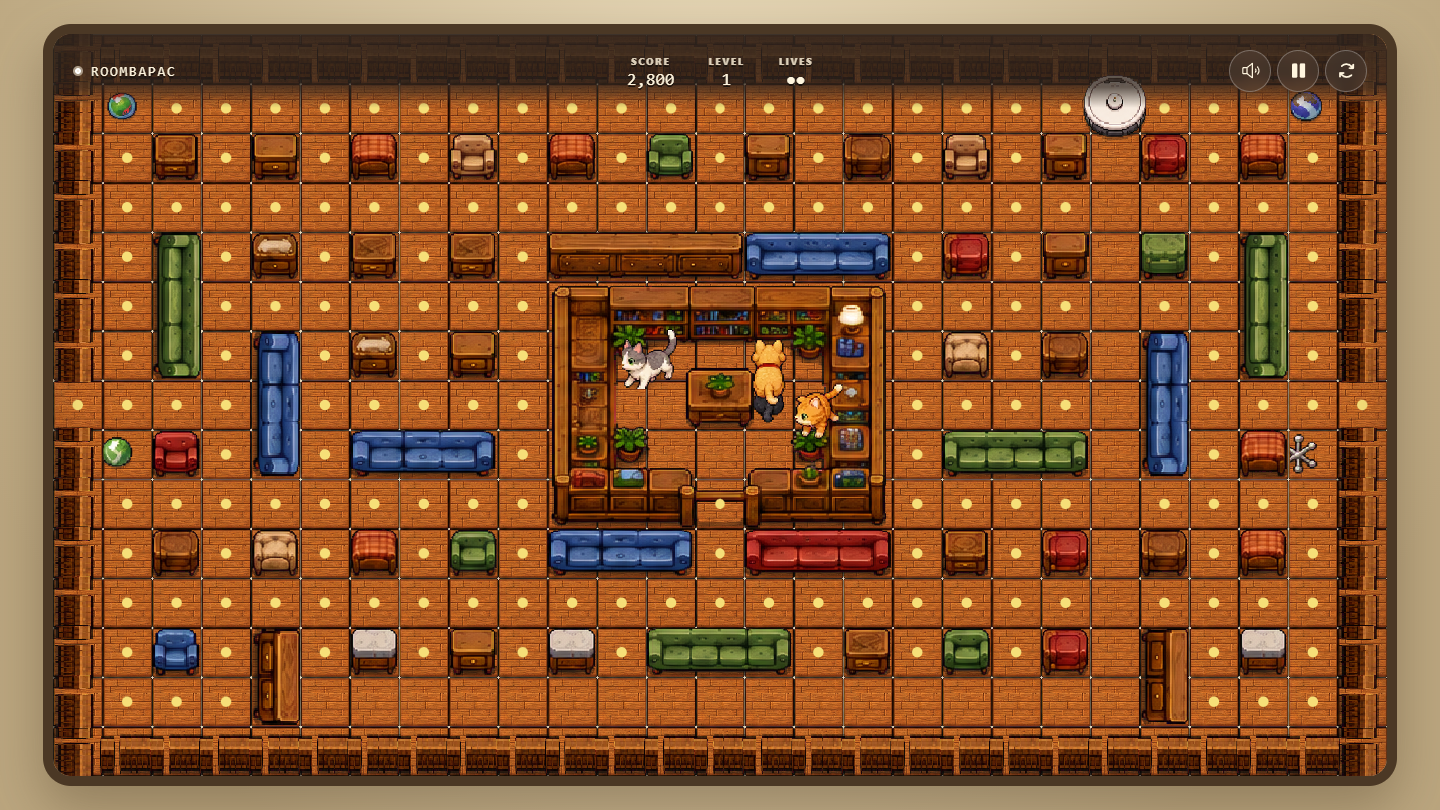
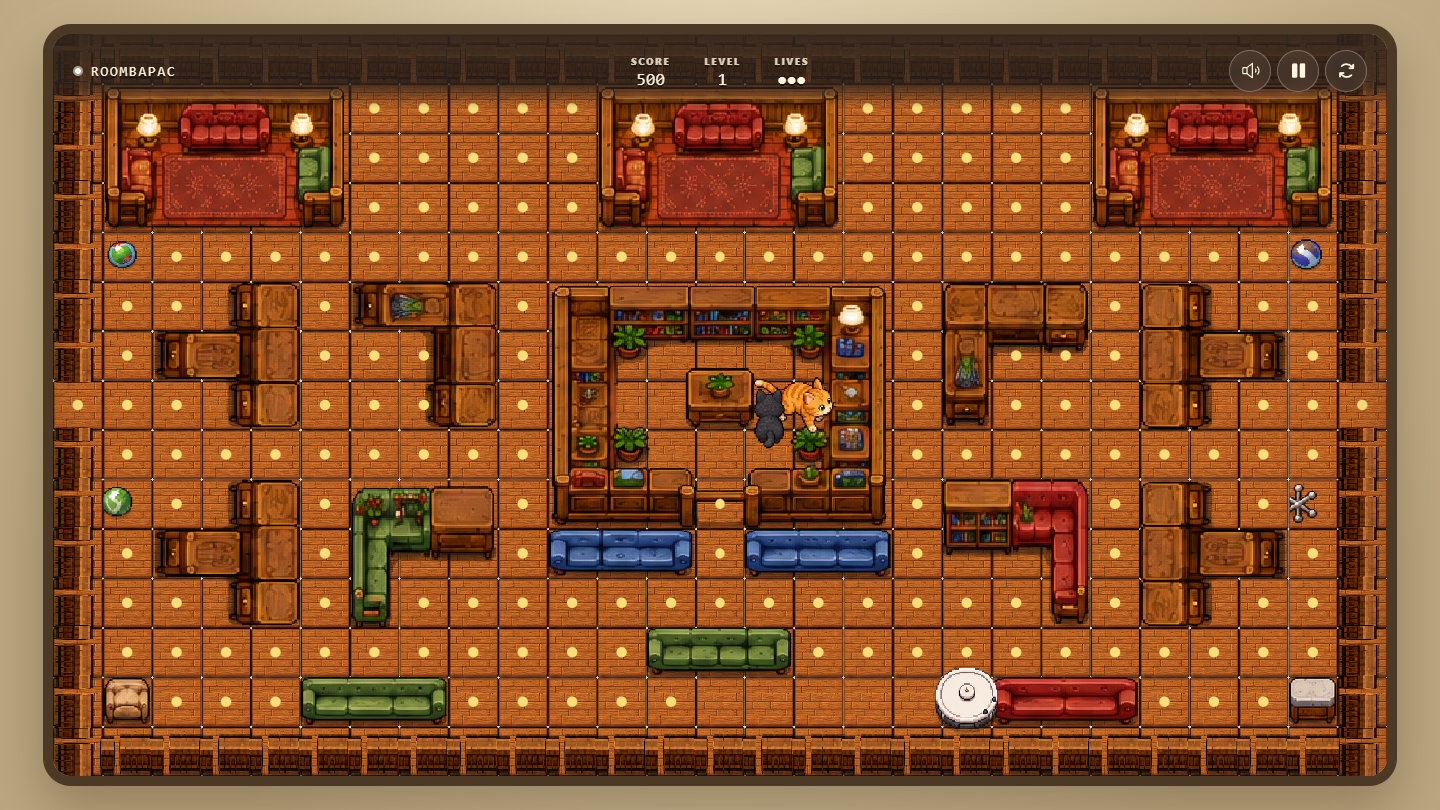
Balance generated obstacle shapes

diff --git a/src/game/maze.ts b/src/game/maze.ts
@@ -6,7 +6,14 @@ export const LEGACY_MAZE_VERSION: MazeVersion = 1
 export const CURRENT_MAZE_VERSION: MazeVersion = 2
 export const MAZE_WIDTH = 27
 export const MAZE_HEIGHT = 15
-const COMPACT_MIN_EDGE_COUNT = 119
+export const COMPACT_OBSTACLE_QUOTAS = {
+  room: 3,
+  linear: 5,
+  junction: 4,
+  hybrid: 2,
+  corner: 2,
+  block: 2,
+} as const
 
 type CoarsePoint = { x: number; y: number }
 type Edge = { a: CoarsePoint; b: CoarsePoint }
@@ -180,14 +187,7 @@ function generateProceduralEdges(random: () => number, layout: MazeLayout) {
     }
   }
 
-  const extraLoopChance = layout.version === LEGACY_MAZE_VERSION ? 0.16 : 0.25
-  for (const group of groups) if (random() < extraLoopChance) addGroup(group)
-  if (layout.version === CURRENT_MAZE_VERSION) {
-    for (const group of groups) {
-      if (selected.size >= COMPACT_MIN_EDGE_COUNT) break
-      if (!group.every((edge) => selected.has(edgeKey(edge)))) addGroup(group)
-    }
-  }
+  for (const group of groups) if (random() < 0.16) addGroup(group)
   return [...selected.values()]
 }
 
@@ -307,6 +307,105 @@ function buildFurniture(cells: Cell[][], theme: number, layout: MazeLayout) {
   return furniture
 }
 
+type CompactQuotaKind = keyof typeof COMPACT_OBSTACLE_QUOTAS
+
+const COMPACT_MASKS: Record<CompactQuotaKind, readonly string[]> = {
+  room: ['11111', '11111', '11111'],
+  linear: ['111'],
+  junction: ['111', '111', '010'],
+  hybrid: ['111', '100', '100'],
+  corner: ['111', '111', '100'],
+  block: ['1'],
+}
+
+const COMPACT_KIND_METADATA: Record<CompactQuotaKind, { kind: FurnitureKind; category: ObstacleCategory }> = {
+  room: { kind: 'room', category: 7 },
+  linear: { kind: 'straight', category: 1 },
+  junction: { kind: 'junction', category: 3 },
+  hybrid: { kind: 'alcove', category: 6 },
+  corner: { kind: 'corner', category: 2 },
+  block: { kind: 'block', category: 5 },
+}
+
+function rotateMaskPoint(point: Point, width: number, height: number, rotation: QuarterTurn): Point {
+  if (rotation === 0) return point
+  if (rotation === 1) return { x: height - 1 - point.y, y: point.x }
+  if (rotation === 2) return { x: width - 1 - point.x, y: height - 1 - point.y }
+  return { x: point.y, y: width - 1 - point.x }
+}
+
+function makeCompactPiece(id: string, quotaKind: CompactQuotaKind, x: number, y: number, rotation: QuarterTurn, variant: number): FurniturePiece {
+  const mask = COMPACT_MASKS[quotaKind]
+  const sourceWidth = mask[0].length, sourceHeight = mask.length
+  const offsets = mask.flatMap((row, rowIndex) => [...row].flatMap((value, columnIndex) => (
+    value === '1' ? [rotateMaskPoint({ x: columnIndex, y: rowIndex }, sourceWidth, sourceHeight, rotation)] : []
+  )))
+  const sideways = rotation % 2 === 1
+  const width = sideways ? sourceHeight : sourceWidth
+  const height = sideways ? sourceWidth : sourceHeight
+  const metadata = COMPACT_KIND_METADATA[quotaKind]
+  return {
+    id,
+    x,
+    y,
+    width,
+    height,
+    cells: offsets.map((point) => ({ x: x + point.x, y: y + point.y })),
+    kind: metadata.kind,
+    category: metadata.category,
+    rotation,
+    variant,
+  }
+}
+
+function mirrorCompactPiece(piece: FurniturePiece, layout: MazeLayout): FurniturePiece {
+  const cells = piece.cells.map((point) => ({ x: layout.width - 1 - point.x, y: point.y }))
+  const minX = Math.min(...cells.map((point) => point.x)), maxX = Math.max(...cells.map((point) => point.x))
+  const minY = Math.min(...cells.map((point) => point.y)), maxY = Math.max(...cells.map((point) => point.y))
+  return { ...piece, id: `${piece.id}-mirror`, x: minX, y: minY, width: maxX - minX + 1, height: maxY - minY + 1, cells, variant: piece.variant ^ 0x9e3779b9 }
+}
+
+function buildCompactWorld(seed: number, tunnelRow: number, theme: number, layout: MazeLayout) {
+  const cells: Cell[][] = Array.from({ length: layout.height }, () => Array<Cell>(layout.width).fill(0))
+  for (let x = 0; x < layout.width; x += 1) cells[0][x] = cells[layout.height - 1][x] = 1
+  for (let y = 1; y < layout.height - 1; y += 1) cells[y][0] = cells[y][layout.width - 1] = 1
+  cells[tunnelRow][0] = cells[tunnelRow][layout.width - 1] = 0
+  penCells(layout).forEach((point) => { cells[point.y][point.x] = 1 })
+
+  const random = mulberry32(seed)
+  let pieceIndex = 0
+  const pieces: FurniturePiece[] = []
+  const rotation = () => Math.floor(random() * 4) as QuarterTurn
+  const addPair = (quotaKind: CompactQuotaKind, x: number, y: number, pieceRotation: QuarterTurn) => {
+    const piece = makeCompactPiece(`compact-${pieceIndex++}`, quotaKind, x, y, pieceRotation, (seed + pieceIndex * 0x45d9f3b) >>> 0)
+    pieces.push(piece, mirrorCompactPiece(piece, layout))
+  }
+
+  addPair('room', 1, 1, 0)
+  addPair('junction', 2, 5, rotation())
+  addPair('hybrid', 6, 5, rotation())
+  addPair('junction', 2, 9, rotation())
+  addPair('corner', 6, 9, 0)
+  addPair('linear', 10, 10, 0)
+  addPair('linear', 5, 13, 0)
+  addPair('block', 1, 13, 0)
+  pieces.push(makeCompactPiece(`compact-${pieceIndex++}`, 'room', 11, 1, 0, seed ^ 0x27d4eb2d))
+  pieces.push(makeCompactPiece(`compact-${pieceIndex++}`, 'linear', 12, 12, 0, seed ^ 0x165667b1))
+
+  for (const piece of pieces) for (const point of piece.cells) {
+    if (cells[point.y]?.[point.x] !== 0) throw new Error(`Compact obstacle ${piece.id} overlaps another wall at ${pointKey(point)}`)
+    cells[point.y][point.x] = 1
+  }
+
+  const boundary = boundaryCells(cells, layout)
+  const furniture: FurniturePiece[] = [
+    { id: 'boundary', x: 0, y: 0, width: layout.width, height: layout.height, cells: boundary, category: 9, kind: 'boundary', variant: theme },
+    ...pieces,
+    { id: 'pet-cage', ...layout.penBounds, cells: penCells(layout), category: 8, kind: 'pen', variant: theme },
+  ]
+  return { cells, furniture }
+}
+
 export function furnitureCells(piece: FurniturePiece): Point[] {
   return piece.cells.map((point) => ({ ...point }))
 }
@@ -358,11 +457,19 @@ export function createMaze(seed: number, level = 1, version: MazeVersion = CURRE
   const mixedSeed = (seed ^ Math.imul(level, 0x9e3779b9)) >>> 0
   const random = mulberry32(mixedSeed)
   const tunnelRow = level === 1 ? layout.levelOneTunnelRow : layout.proceduralTunnelRows[random() < 0.5 ? 0 : 1]
-  const edges = level === 1 ? generateLevelOneEdges(layout) : generateProceduralEdges(random, layout)
-  const cells = carveMaze(edges, tunnelRow, layout)
   const tunnels = [tunnelPair(tunnelRow, layout)]
   const theme = (level - 1) % 9
-  const furniture = buildFurniture(cells, theme, layout)
+  let cells: Cell[][]
+  let furniture: FurniturePiece[]
+  if (version === CURRENT_MAZE_VERSION) {
+    const world = buildCompactWorld(level === 1 ? 1013905061 : mixedSeed, tunnelRow, theme, layout)
+    cells = world.cells
+    furniture = world.furniture
+  } else {
+    const edges = level === 1 ? generateLevelOneEdges(layout) : generateProceduralEdges(random, layout)
+    cells = carveMaze(edges, tunnelRow, layout)
+    furniture = buildFurniture(cells, theme, layout)
+  }
   const base = { width: layout.width, height: layout.height, cells, tunnels }
   const { pellets, items } = makeCollectibles(base, layout)
   return { ...base, pellets, items, spawn: { ...layout.spawn }, pen: { ...layout.penHome }, furniture, theme, seed }

diff --git a/src/game/maze.test.ts b/src/game/maze.test.ts
@@ -1,5 +1,5 @@
 import { describe, expect, it } from 'vitest'
-import { availableDirections, createMaze, CURRENT_MAZE_VERSION, furnitureCells, LEGACY_MAZE_VERSION, MAZE_HEIGHT, MAZE_WIDTH, neighborPoint, reachableCount } from './maze'
+import { availableDirections, COMPACT_OBSTACLE_QUOTAS, createMaze, CURRENT_MAZE_VERSION, furnitureCells, LEGACY_MAZE_VERSION, MAZE_HEIGHT, MAZE_WIDTH, neighborPoint, reachableCount } from './maze'
 import { pointKey, type ObstacleCategory } from './types'
 
 const insidePen = (x: number, y: number) => x >= 11 && x <= 15 && y >= 6 && y <= 8
@@ -12,9 +12,9 @@ describe('Pac-Man-style furniture mazes', () => {
     expect(first.furniture).toEqual(second.furniture)
     expect(first).toMatchObject({ width: MAZE_WIDTH, height: MAZE_HEIGHT, spawn: { x: 13, y: 13 }, pen: { x: 13, y: 7 } })
     expect(first.tunnels).toEqual([{ left: { x: 0, y: 7 }, right: { x: 26, y: 7 } }])
-    expect(first.pellets.size).toBeGreaterThanOrEqual(200)
-    expect(first.pellets.size).toBeLessThanOrEqual(225)
-    expect(new Set(first.furniture.map((piece) => piece.category))).toEqual(new Set<ObstacleCategory>([1, 4, 5, 8, 9]))
+    expect(first.pellets.size).toBeGreaterThanOrEqual(170)
+    expect(first.pellets.size).toBeLessThanOrEqual(180)
+    expect(new Set(first.furniture.map((piece) => piece.category))).toEqual(new Set<ObstacleCategory>([1, 2, 3, 5, 6, 7, 8, 9]))
   })
 
   it('retains the legacy board for ranked runs started by version-one clients', () => {
@@ -39,25 +39,36 @@ describe('Pac-Man-style furniture mazes', () => {
     const walkable = maze.cells.flat().filter((cell) => cell === 0).length
     expect(reachableCount(maze)).toBe(walkable)
     expect(maze.items.size).toBe(4)
-    expect(maze.pellets.size).toBeGreaterThanOrEqual(200)
-    expect(maze.pellets.size).toBeLessThanOrEqual(225)
+    expect(maze.pellets.size).toBeGreaterThanOrEqual(170)
+    expect(maze.pellets.size).toBeLessThanOrEqual(180)
     for (const key of [...maze.pellets, ...maze.items]) {
       const [x, y] = key.split(',').map(Number)
       expect(maze.cells[y][x]).toBe(0)
     }
   })
 
-  it.each([1, 2, 3, 8, 25])('builds symmetric single-lane loop networks for level %i', (level) => {
+  it.each([1, 2, 3, 8, 25])('builds symmetric connected routes without dead ends for level %i', (level) => {
     const maze = createMaze(987654, level)
     for (let y = 0; y < maze.height; y += 1) {
       expect(maze.cells[y]).toEqual([...maze.cells[y]].reverse())
       for (let x = 0; x < maze.width; x += 1) {
         if (maze.cells[y][x] === 0 && !insidePen(x, y)) expect(availableDirections(maze, { x, y }).length).toBeGreaterThanOrEqual(2)
-        if (x < maze.width - 1 && y < maze.height - 1 && !insidePen(x, y)) {
-          const openSquare = maze.cells[y][x] === 0 && maze.cells[y][x + 1] === 0 && maze.cells[y + 1][x] === 0 && maze.cells[y + 1][x + 1] === 0
-          expect(openSquare).toBe(false)
-        }
       }
+    }
+  })
+
+  it('uses the rounded obstacle quota on fixed and procedural rooms', () => {
+    for (const maze of [createMaze(1, 1), createMaze(4_242, 2), createMaze(9_731, 17)]) {
+      const counts = { room: 0, linear: 0, junction: 0, hybrid: 0, corner: 0, block: 0 }
+      for (const piece of maze.furniture) {
+        if (piece.kind === 'room') counts.room += 1
+        else if (piece.kind === 'straight' || piece.kind === 'stub') counts.linear += 1
+        else if (piece.kind === 'junction') counts.junction += 1
+        else if (piece.kind === 'alcove') counts.hybrid += 1
+        else if (piece.kind === 'corner') counts.corner += 1
+        else if (piece.kind === 'block') counts.block += 1
+      }
+      expect(counts).toEqual(COMPACT_OBSTACLE_QUOTAS)
     }
   })
 
@@ -93,8 +104,8 @@ describe('Pac-Man-style furniture mazes', () => {
       const maze = createMaze(seed * 7_919, (seed % 30) + 2)
       expect(reachableCount(maze)).toBe(maze.cells.flat().filter((cell) => cell === 0).length)
       expect(maze.items.size).toBe(4)
-      expect(maze.pellets.size).toBeGreaterThanOrEqual(200)
-      expect(maze.pellets.size).toBeLessThanOrEqual(225)
+      expect(maze.pellets.size).toBeGreaterThanOrEqual(170)
+      expect(maze.pellets.size).toBeLessThanOrEqual(180)
       for (let y = 0; y < maze.height; y += 1) for (let x = 0; x < maze.width; x += 1) {
         if (maze.cells[y][x] === 0 && !insidePen(x, y)) expect(availableDirections(maze, { x, y }).length).toBeGreaterThanOrEqual(2)
       }

diff --git a/src/game/furnitureLayout.test.ts b/src/game/furnitureLayout.test.ts
@@ -64,5 +64,6 @@ describe('footprint-aware furniture layout', () => {
     expect(new Set(firstMap.map(({ id }) => id)).size).toBeGreaterThanOrEqual(8)
     expect(new Set(firstMap.map(({ family }) => family)).size).toBeGreaterThanOrEqual(4)
     expect(definitions.filter(({ family }) => family === 'chair').length / definitions.length).toBeLessThan(0.3)
+    expect(selected.filter(({ cells }) => cells.length === 1).length / selected.length).toBeLessThan(0.15)
   })
 })

diff --git a/design-qa.md b/design-qa.md
@@ -7,8 +7,9 @@
 
 **Full-view comparison evidence**
 
-- The revised implementation preserves the landscape composition, symmetry, single-lane loop network, central cage, obstacle islands, outer boundary, and side tunnels.
-- The active world now uses 27×15 cells and 210 level-one crumbs, down from 31×17 cells and 277 crumbs. The board remains nearly flush with the 16:9 frame while actors, collectibles, and furniture render about 15% larger.
+- The revised implementation preserves the landscape composition, symmetry, connected no-dead-end routes, central cage, obstacle islands, outer boundary, and side tunnels.
+- The active world now uses 27×15 cells and 174 level-one crumbs, down from 31×17 cells and 277 crumbs. The board remains nearly flush with the 16:9 frame while actors, collectibles, and furniture render about 15% larger.
+- Fixed and procedural rooms use 18 quota-controlled obstacles: three large rectangles, five I pieces, four T pieces, two hybrids, two corners, and two blocks. Exact atlas masks reduce one-cell furniture placements from 70.3% to 11.1%.
 - Unlike the feedback capture, each collision component is assembled from exact one-, two-, and three-cell furniture modules. Sofas and bookcases remain proportionate instead of being stretched across arbitrary component bounds.
 - The brown collision-cell underlay has been removed. Transparent sprite space now reveals the same world floor tile used in the hallways.
 
@@ -42,8 +43,11 @@
    - Fix: removed the collision-cell fill so the normal themed world tile is the only floor beneath furniture.
    - Post-fix evidence: both revised screenshots show continuous floor tiles through every transparent furniture gap.
 5. P1 — The 31×17 rooms contained roughly 285 crumbs and took too long to clear.
-   - Fix: reduced fixed and procedural rooms to 27×15 cells, with deterministic generation constrained to 200–225 crumbs.
+   - Fix: reduced fixed and procedural rooms to 27×15 cells, then introduced deterministic obstacle quotas that settle rooms at 174 crumbs.
    - Post-fix evidence: the refreshed desktop and mobile landscape captures show the denser Pac-Man-like composition, larger game art, working HUD controls, and exposed touch pad.
+6. P1 — The compact corridor-first generator fragmented walls into roughly 46 obstacles, 72.8% of which were isolated blocks.
+   - Fix: replaced compact generation with a mirrored obstacle-first quota and exact multi-cell atlas masks; only two of 18 pieces are now one-block obstacles.
+   - Post-fix evidence: the refreshed captures show coherent rooms, sofas, T junctions, hybrids, and corners without the previous field of chairs.
 
 **Findings**
 
@@ -59,7 +63,7 @@
 - [x] Represent furniture categories 1–9 with production sprites.
 - [x] Tile every non-boundary collision cell exactly once with a centered furniture module.
 - [x] Preserve the themed world floor beneath transparent furniture.
-- [x] Preserve single-lane connectivity and real wrap tunnels.
+- [x] Preserve connected, no-dead-end routes and real wrap tunnels.
 - [x] Verify active desktop play and mobile touch controls.
 - [x] Verify the compact board fills the 16:9 surface without clipping at desktop and mobile landscape sizes.
 - [x] Check console warnings and errors at desktop and mobile viewports.

diff --git a/README.md b/README.md
@@ -49,7 +49,7 @@ Vercel is connected directly to `m3tr1cc/RoombaPac`. Pull requests receive previ
 
 ## Maze generation
 
-Level one uses the supplied annotated landscape plan as a fixed, compact 27×15 furniture-obstacle blueprint. Later rooms use the same dimensions and are deterministic from the ranked run seed and level: a constrained half-board generator builds connected, single-lane loops around a reserved pet cage, mirrors the result, and adds matched wrap tunnels before placing crumbs and items. Versioned run sessions keep older 31×17 runs valid while they remain active.
+Level one uses the supplied annotated landscape plan as a fixed, compact 27×15 furniture-obstacle blueprint. Later rooms use the same dimensions and are deterministic from the ranked run seed and level: an obstacle-first generator places a rounded quota of large rectangles, I pieces, T junctions, hybrids, corners, and blocks; mirrors the layout around the pet cage; rotates eligible shapes from the seed; and adds matched wrap tunnels before placing crumbs and items. Every floor stays connected and free of normal-path dead ends. Versioned run sessions keep older 31×17 runs valid while they remain active.
 
 The procedural design is an independent TypeScript implementation inspired by the maze-design principles documented in [Alex313031/web-pacman](https://github.com/Alex313031/web-pacman). No source from its GPL-3.0 `mapgen.js` implementation is included in RoombaPac.
 
